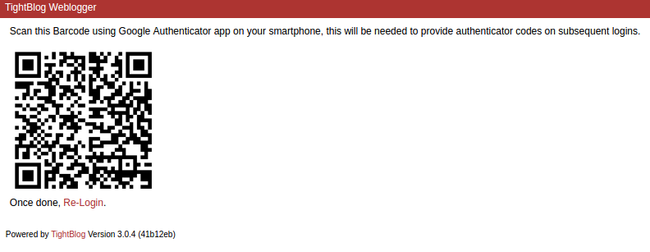
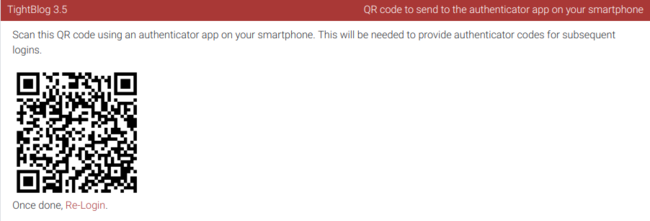
Screenshots updated for 3.5 Release.

Changed region(s): [[0.0, 0.0, 1.0, 0.9502]]

diff --git a/src/main/java/org/tightblog/ui/security/MultiFactorAuthenticationProvider.java b/src/main/java/org/tightblog/ui/security/MultiFactorAuthenticationProvider.java
@@ -62,7 +62,7 @@ public class MultiFactorAuthenticationProvider extends DaoAuthenticationProvider
             if (creds.getMfaSecret() != null) {
                 Totp totp = new Totp(creds.getMfaSecret());
                 if (!isValidLong(verificationCode) || !totp.verify(verificationCode)) {
-                    throw new InvalidVerificationCodeException("Google Authenticator code invalid");
+                    throw new InvalidVerificationCodeException("Authenticator app code invalid");
                 }
             }
         }

diff --git a/src/main/java/org/tightblog/ui/security/CustomUserDetailsService.java b/src/main/java/org/tightblog/ui/security/CustomUserDetailsService.java
@@ -80,7 +80,7 @@ public class CustomUserDetailsService implements UserDetailsService {
         }
         targetPassword = creds.getPassword();
 
-        // If MFA required & user hasn't a secret for Google Authenticator, limit role
+        // If MFA required & user hasn't a secret for their authenticator app, limit role
         // to PRE_AUTH_USER (intended to limit user to QR code scan page.)
         if (mfaEnabled && StringUtils.isBlank(creds.getMfaSecret())) {
             targetGlobalRole = GlobalRole.MISSING_MFA_SECRET;

diff --git a/src/main/java/org/tightblog/domain/GlobalRole.java b/src/main/java/org/tightblog/domain/GlobalRole.java
@@ -22,7 +22,7 @@ import com.fasterxml.jackson.annotation.JsonCreator;
 public enum GlobalRole {
     // For pages that don't need authenticated users (initial install, user registration, login, etc.)
     NOAUTHNEEDED(0),
-    // For users missing Google Authenticator secret and system requires multifactor authentication
+    // For users missing Authenticator app secret and system requires multifactor authentication
     MISSING_MFA_SECRET(1),
     // Users can edit weblogs for which they have permission
     BLOGGER(2),

diff --git a/src/main/java/org/tightblog/service/UserManager.java b/src/main/java/org/tightblog/service/UserManager.java
@@ -150,7 +150,7 @@ public class UserManager {
     }
 
     /**
-     * Generate a URL for the user's Google Authenticator code (for MFA)
+     * Generate a URL for the user's smartphone authenticator app code (for MFA)
      * @param user User to obtain QA code for
      * @return url Image URL for the QR code
      */

diff --git a/src/main/java/org/tightblog/domain/UserCredentials.java b/src/main/java/org/tightblog/domain/UserCredentials.java
@@ -42,7 +42,7 @@ public class UserCredentials {
     private String password;
     private GlobalRole globalRole;
 
-    // for Google Authenticator use
+    // for Authenticator app use
     // see http://www.baeldung.com/spring-security-two-factor-authentication-with-soft-token
     private String mfaSecret;
 

diff --git a/README.md b/README.md
@@ -1,9 +1,10 @@
-TightBlog is a bottom-to-nearly-top rewrite of Apache Roller with obsolete or otherwise seldom used functionality removed
-and some new functionality added in (see below for details).  Its goal is to pleasantly satisfy 100% of the needs of 70-80% of bloggers while
-serving as a reliable starting point for other developers to fork and add bells and whistles to reach a larger audience.  
+TightBlog is a bottom-to-nearly-top rewrite of Apache Roller with much lesser-used functionality removed
+and new functionality added in (see below for details).  Its goal is to pleasantly satisfy 100% of the needs of 70-80% of bloggers while
+serving as a reliable starting point for other developers to fork and add additional customized features.  
 
-I started this fork in May 2015 after contributing for about 2 1/2 years on Roller.  As of 6 October 2018, 
-<a href="https://github.com/gmazza/tightblog/releases">Release 3.4</a> is available.
+After contributing for about 2 1/2 years on Roller, I forked the codebase in May 2015 after I was unable to
+get team approval for simplifications I felt vital for the long-term growth of the project.  As of June 2019, 
+<a href="https://github.com/gmazza/tightblog/releases">Release 3.5</a> is available.
 
 Screen shots for the TightBlog UI are [here](https://github.com/gmazza/tightblog/wiki/Screenshots), the twelve-table database model is
 [here](https://github.com/gmazza/tightblog/blob/master/app/src/main/resources/dbscripts/createdb.vm), see also [my blog](https://glenmazza.net/blog/) for an example
@@ -13,16 +14,17 @@ The table below shows the streamlining TightBlog has gone through in its first t
 little-used functionality while switching to Gradle, Spring Boot, Spring REST API, AngularJS, etc. has made the code
 significantly easier to work with and a much more reliable starting point for forking and adding your own enhancements.  
 
-|Product|Released|Database Tables|Java Source Files (non-test)|JSP Files|Lines Of Code|
+|Product|Released|Database Tables|Java Source Files (non-test)|JSP Files|Lines Of Code (including tests)|
 |-----|-----|-----|-----|-----|-----|
 |Apache Roller 5.1.2|1 Mar 2015|33|493|96|95.7K|
 |TightBlog 1.0|17 July 2016|17|187|55|48.5K|
 |TightBlog 2.0|4 June 2017|14|151|37|43.7K|
 |TightBlog 3.0|23 June 2018|12|119|37|35.8K|
+|TightBlog 3.5|16 June 2019|12|122|38|32.5K|
 
-Lines of code (LOC) above were based on <a href="https://www.openhub.net/p/tightblog">OpenHub</a> stats, seldom updated today.  The
-streamlining is still ongoing (lines of code not always telling the whole story due to increased test coverage placing
-upward pressure on the total.)  <a href="https://codetabs.com/">CodeTabs</a> provides a 
+Lines of code (LOC) above were based on <a href="https://www.openhub.net/p/tightblog">OpenHub</a> stats.  The
+droppage would be even more significant were it not for increased test code coverage (a good thing!). 
+<a href="https://codetabs.com/">CodeTabs</a> provides a 
 <a href="https://codetabs.com/count-loc/count-loc-online.html">real-time comparator</a> allowing one to see how much
 more streamlined TightBlog is over its predecessor:  
 <a href="https://api.codetabs.com/v1/loc?github=gmazza/tightblog">(TightBlog)</a>
@@ -32,21 +34,22 @@ Some changes and new functionality added to TightBlog post-fork:
 
 * Bloggers may blog using <a href="http://commonmark.org/">CommonMark</a> in addition to standard HTML and Rich Text Editors.
 * Blog entries have an unseen "notes" field to store anything helpful in maintaining the article.
+* There is a new BLOGCREATOR global role separated from the earlier BLOGGER role.  While both roles allow a blogger full administration of his weblog once created, those with the latter role will need to have their blog(s) created first by an administrator.   
 * New Tag management screen for renaming, merging, and deleting tags attached to blog entries, as well as adding a new tag to entries having a given tag.
 * Category and Tag management tabs now list the number of blog entries associated with the category or tag, as well as publish dates of the first and last entries of each.
-* A "search.enabled" setting has been added to static configuration allowing for shutting off the Lucene indexer used for blog searching, useful in saving processing/space when using third party indexing tools like Google Custom Search instead.
 * Commenters who request "notify me" to receive emails of future comments for a particular blog entry now receive a link at the bottom of the email to shut off future notifications
-* There is a new BLOGCREATOR global role separated from the earlier BLOGGER role.  While both roles allow a blogger full administration of his weblog once created, those with the latter role will need to have their blog(s) created first by an administrator.   
-* Commenters who are logged-in bloggers now have their blogger ID stored with the comment, simplifying comment entry and allowing for different styling of comments based on commenter.
+* Commenters who are logged-in have their screen name and email fields already filled in comment forms, also their blogger ID stored with the comment.
 * The blog template engine (used for customized themes) is now Thymeleaf instead of Apache Velocity.
 * All emails sent are in HTML format and customizable by modifying the Thymeleaf templates that generate them.
-* Login Multifactor Authentication (MFA) with Google Authenticator support added (Admin setting available to disable if desired).
+* Login Multifactor Authentication (MFA) with smartphone authenticator support added (Admin setting available to disable if desired).
+* Much improved database and generated webpage caching and, for the latter, improved cache statistics gathering.
+* A "search.enabled" setting has been added to static configuration allowing for shutting off the Lucene indexer used for blog searching, useful in saving processing/space when using third party indexing tools like Google Custom Search instead.
 
 To obtain the source code:
 * 3.x branch (current): git clone git@github.com:gmazza/tightblog.git
 * source for a specific release: https://github.com/gmazza/tightblog/releases
 
-To build the application (build/libs/tightblog-x.y.z.war) with Gradle and Java 10+:
+To build the application (build/libs/tightblog-x.y.z.war) with Gradle and Java 11+:
   `./gradlew clean build` from the TightBlog root.
   
 Deployment information:
